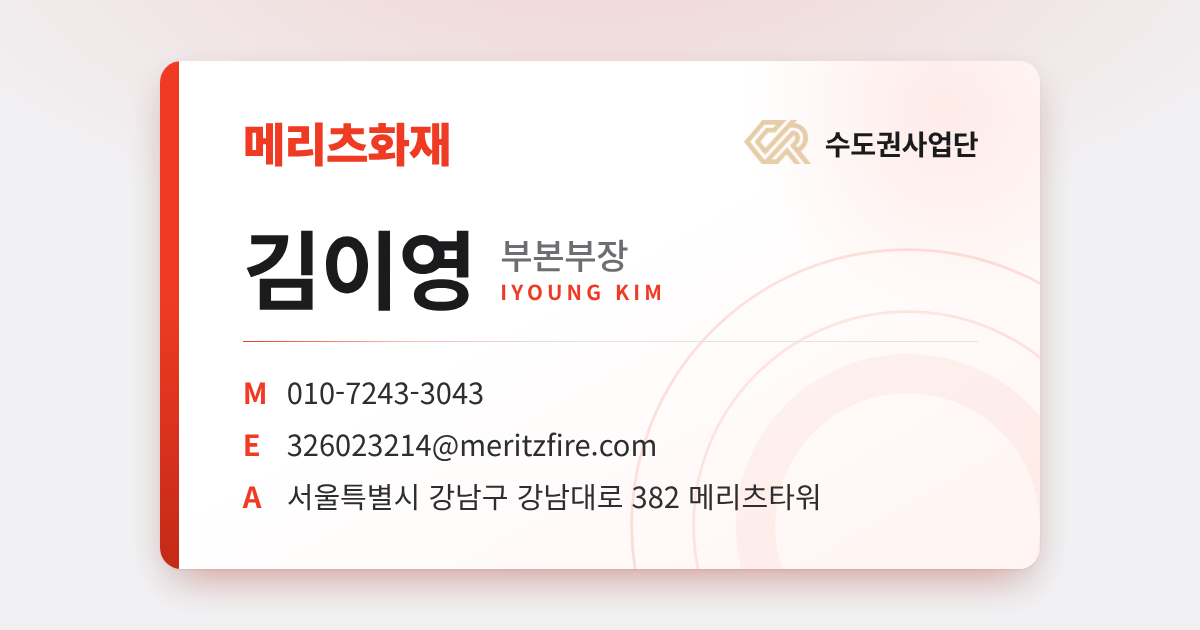
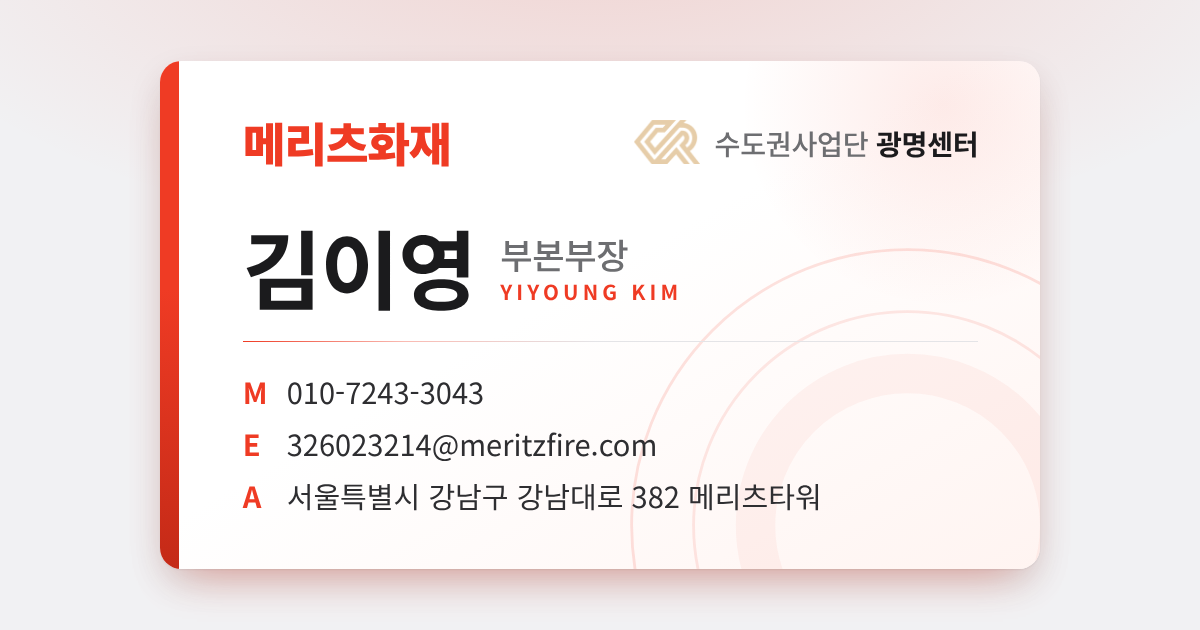
김이영 명함: 소속 광명센터 추가, 영문 이름 Yiyoung으로 수정
Claude-Session: https://claude.ai/code/session_01LevLTkvcs2yUjMXfr1bqTN

Changed region(s): [[0.5242, 0.181, 0.8325, 0.2714], [0.4008, 0.4524, 0.5858, 0.4825]]

diff --git a/kimiyoung.html b/kimiyoung.html
@@ -5,9 +5,9 @@
 <meta name="viewport" content="width=device-width, initial-scale=1, viewport-fit=cover">
 <meta name="format-detection" content="telephone=no">
 <title>김이영 부본부장</title>
-<meta name="description" content="메리츠화재 수도권사업단 김이영 부본부장 · 010-7243-3043">
+<meta name="description" content="메리츠화재 수도권사업단 광명센터 김이영 부본부장 · 010-7243-3043">
 <meta property="og:title" content="김이영 부본부장 | 메리츠화재">
-<meta property="og:description" content="수도권사업단 · 010-7243-3043">
+<meta property="og:description" content="수도권사업단 광명센터 · 010-7243-3043">
 <meta name="theme-color" content="#EF3B24">
 <meta property="og:type" content="website">
 <meta property="og:url" content="https://wangmagchun-web.github.io/card/kimiyoung.html">
@@ -262,13 +262,13 @@
       <div class="glow"></div>
       <div class="top">
         <div class="brand">메리츠화재</div>
-        <div class="org"><img class="mark" src="capital-region-mark.png" alt="수도권사업단 로고"><span><b>수도권사업단</b></span></div>
+        <div class="org"><img class="mark" src="capital-region-mark.png" alt="수도권사업단 로고"><span>수도권사업단 <b>광명센터</b></span></div>
       </div>
       <div class="who">
         <h1 class="name">김이영</h1>
         <div class="titles">
           <div class="title">부본부장</div>
-          <div class="en">Iyoung Kim</div>
+          <div class="en">Yiyoung Kim</div>
         </div>
       </div>
       <div class="rule"></div>
